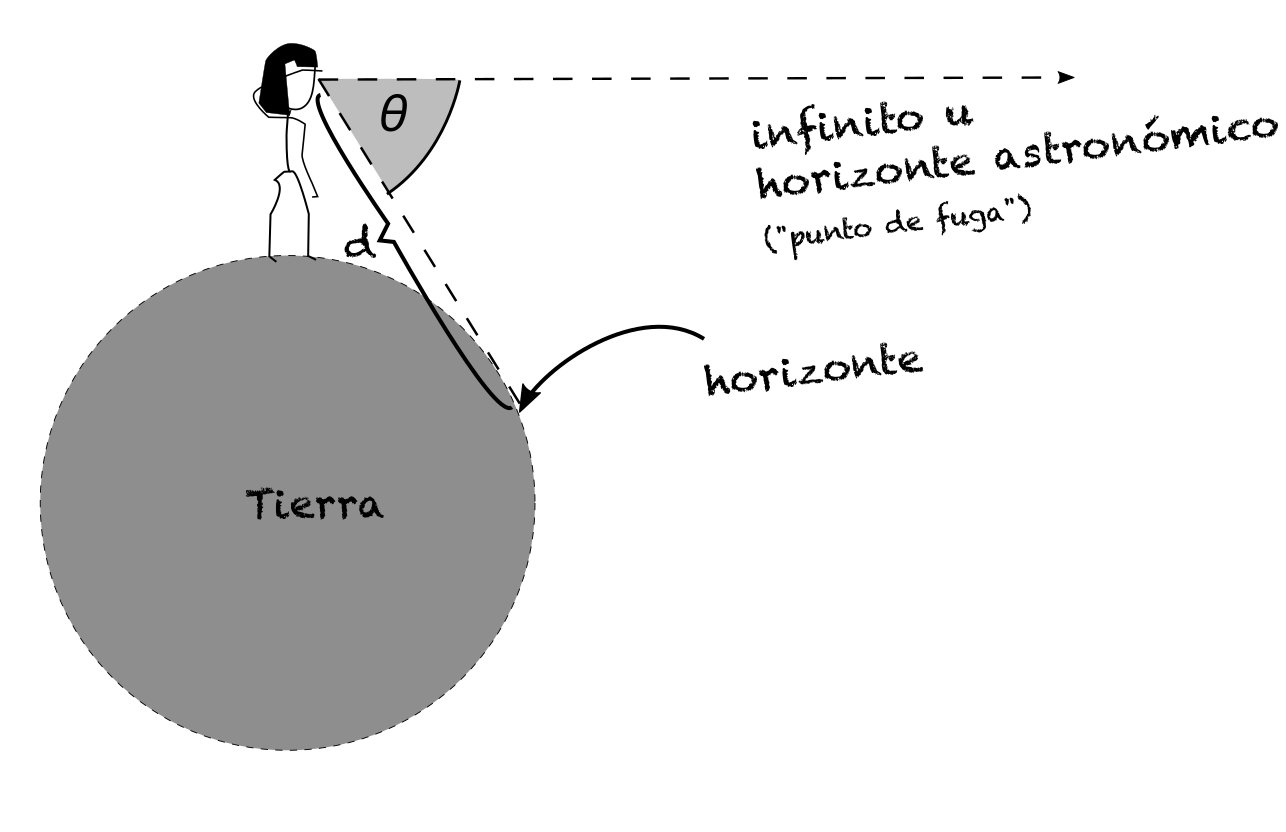
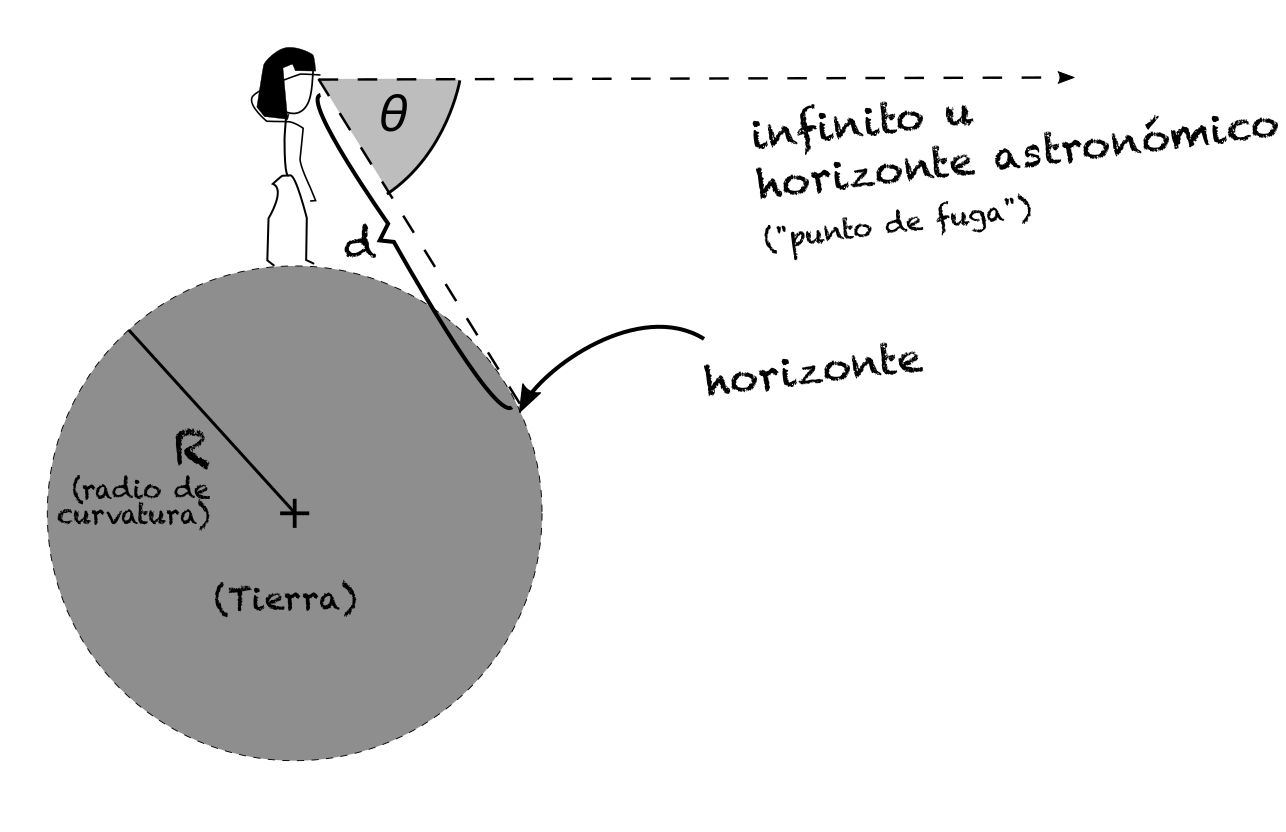
Punto de fuga post

diff --git a/_posts/2018-08-16-punto-de-fuga.md b/_posts/2018-08-16-punto-de-fuga.md
@@ -70,6 +70,15 @@ Pues bien, la diferencia entre mirar al infinito y mirar al **verdadero horizont
 A medida que el radio de curvatura $$R$$ crece (es decir, el tamaño de la esfera sobre la que estamos parados aumenta), el ángulo $$\theta$$ se reduce. Cuando el radio $$R$$ is infinito -- lo que equivale a decir que la superficie sobre la que estamos parados **es plana** -- entonces $$\theta=0^\circ$$. Es decir, si uno **viviera sobre un plano infinito** (o el radio de curvatura $$R$$ is infinito), el **el horizonte siempre estaría a nivel de los ojos**, como se ilustra en la siguiente figura.
 
 
+{% capture fig_img %}
+![Foo]({{ "/images/horizon_multiple.png" | relative_url }})
+{% endcapture %}
+
+<figure>
+  {{ fig_img | markdownify | remove: "<p>" | remove: "</p>" }}
+  <figcaption> Trigonometría básica detrás del cálculo de la distancia a la que se encuentra el horizonte  (figure credit D.J.Munoz). </figcaption>
+</figure>
+
 El Cálculo
 ----------------
 
